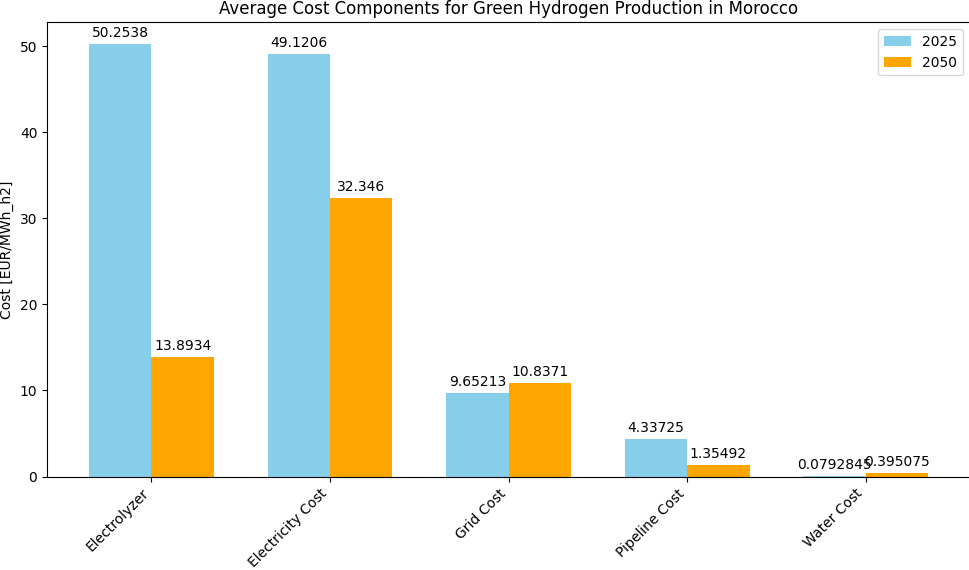
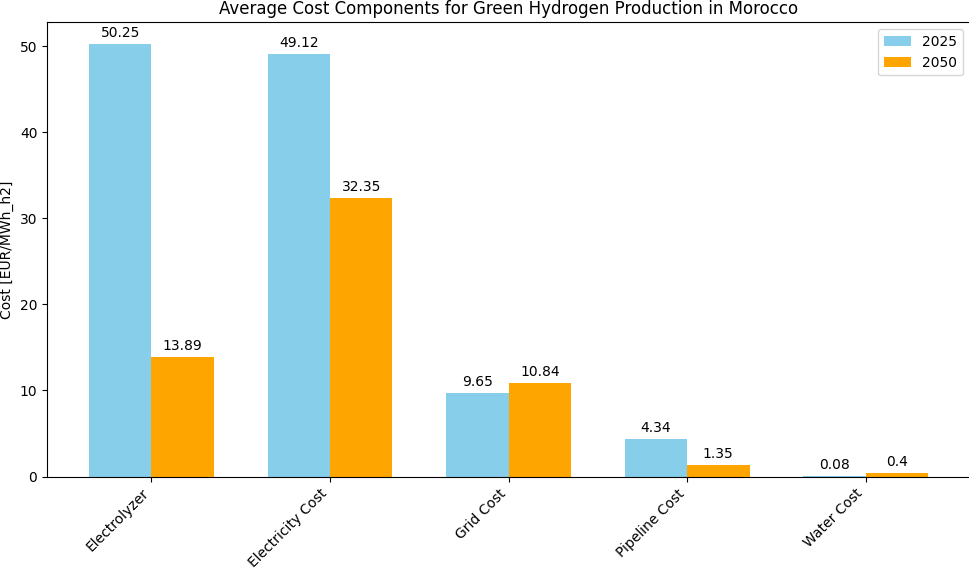
Update

diff --git a/Cost_analysis/results_cost.py b/Cost_analysis/results_cost.py
@@ -14,6 +14,13 @@ df_res_2050             = pd.read_csv('Data/results_cost_2050.csv')
 theme_rating = 'jet'
 theme_diff   = 'OrRd_r'
 
+# Beispiel-Koordinate
+y_limit = 3.15e6
+
+# Filter: alle Objekte, deren Geometrie-Zentrum südlicher liegt
+gdf_south = gdf_grid_morocco[gdf_grid_morocco.geometry.centroid.y < y_limit]
+gdf_north = gdf_grid_morocco[gdf_grid_morocco.geometry.centroid.y >= y_limit]
+
 # Costs 2025
 fig, ax = plt.subplots(figsize=(15, 10))
 gdf_morocco_boundary.plot(ax=ax, edgecolor='black', facecolor="none", linewidth=2)
@@ -22,8 +29,8 @@ cx.add_basemap(ax, crs=gdf_morocco_boundary.crs, source=cx.providers.CartoDB.Pos
 plt.axis('off')
 cbar_ax = fig.axes[-1]
 cbar_ax.tick_params(labelsize=14)
-cbar_ax.yaxis.label.set_size(14)
-plt.savefig("Maps/cost_map_2025.png", format="png", dpi=300, bbox_inches='tight', pad_inches=0)
+cbar_ax.yaxis.label.set_size(20)
+plt.savefig("Maps/cost_map_2025.pdf", format="pdf", dpi=300, bbox_inches='tight', pad_inches=0)
 plt.show()
 
 # Costs 2050
@@ -34,14 +41,14 @@ cx.add_basemap(ax, crs=gdf_morocco_boundary.crs, source=cx.providers.CartoDB.Pos
 plt.axis('off')
 cbar_ax = fig.axes[-1]
 cbar_ax.tick_params(labelsize=14)
-cbar_ax.yaxis.label.set_size(14)
-plt.savefig("Maps/cost_map_2050.png", format="png", dpi=300, bbox_inches='tight', pad_inches=0)
+cbar_ax.yaxis.label.set_size(20)
+plt.savefig("Maps/cost_map_2050.pdf", format="pdf", dpi=300, bbox_inches='tight', pad_inches=0)
 plt.show()
 
 # Kostenanteile
 labels = ['Electrolyzer', 'Electricity Cost', 'Grid Cost', 'Pipeline Cost', 'Water Cost']
-costs_2025 = [df_res_2025['Electrolyzer_cost [EUR/MWh_h2]'].mean(), df_res_2025['RE_cost [EUR/MWh_h2]'].mean(), df_res_2025['Distribution_cost [EUR/MWh_h2]'].mean(), df_res_2025['Pipeline_cost [EUR/MWh_h2]'].mean(), df_res_2025['Water_cost [EUR/MWh_h2]'].mean()]
-costs_2050 = [df_res_2050['Electrolyzer_cost [EUR/MWh_h2]'].mean(), df_res_2050['RE_cost [EUR/MWh_h2]'].mean(), df_res_2050['Distribution_cost [EUR/MWh_h2]'].mean(), df_res_2050['Pipeline_cost [EUR/MWh_h2]'].mean(), df_res_2050['Water_cost [EUR/MWh_h2]'].mean()]
+costs_2025 = [round(df_res_2025['Electrolyzer_cost [EUR/MWh_h2]'].mean(), 2), round(df_res_2025['RE_cost [EUR/MWh_h2]'].mean(), 2), round(df_res_2025['Distribution_cost [EUR/MWh_h2]'].mean(), 2), round(df_res_2025['Pipeline_cost [EUR/MWh_h2]'].mean(), 2), round(df_res_2025['Water_cost [EUR/MWh_h2]'].mean(), 2)]
+costs_2050 = [round(df_res_2050['Electrolyzer_cost [EUR/MWh_h2]'].mean(), 2), round(df_res_2050['RE_cost [EUR/MWh_h2]'].mean(), 2), round(df_res_2050['Distribution_cost [EUR/MWh_h2]'].mean(), 2), round(df_res_2050['Pipeline_cost [EUR/MWh_h2]'].mean(), 2), round(df_res_2050['Water_cost [EUR/MWh_h2]'].mean(), 2)]
 x = np.arange(len(labels))  # the label locations
 width = 0.35  # the width of the bars
 fig, ax = plt.subplots(figsize=(10, 6))
@@ -56,7 +63,7 @@ ax.legend()
 ax.bar_label(rects1, padding=3)
 ax.bar_label(rects2, padding=3)
 fig.tight_layout()
-plt.savefig("Maps/bar_cost_components_morocco_seperate.png", format="png", bbox_inches='tight', pad_inches=0)
+plt.savefig("Maps/bar_cost_components_morocco_seperate.pdf", format="pdf", bbox_inches='tight', pad_inches=0)
 plt.show()
 
 # Gestapeltes Säulendiagramm
@@ -81,5 +88,73 @@ ax.set_ylabel('Cost [EUR/MWh_h2]')
 ax.set_title('Cost Components for Green Hydrogen Production in Morocco')
 ax.legend([b[0] for b in bars], labels, bbox_to_anchor=(1.05, 1), loc='upper left')
 fig.tight_layout()
-plt.savefig("Maps/bar_cost_components_morocco.png", format="png", bbox_inches='tight', pad_inches=0)
+plt.savefig("Maps/bar_cost_components_morocco.pdf", format="pdf", bbox_inches='tight', pad_inches=0)
+plt.show()
+
+# IDs der nördlichen und südlichen Zellen
+north_idx = gdf_north.index
+south_idx = gdf_south.index
+
+labels = ['Electrolyzer', 'Electricity Cost', 'Grid Cost', 'Pipeline Cost', 'Water Cost']
+
+# 2025
+costs_north_2025 = [
+    df_res_2025.loc[north_idx, 'Electrolyzer_cost [EUR/MWh_h2]'].mean(),
+    df_res_2025.loc[north_idx, 'RE_cost [EUR/MWh_h2]'].mean(),
+    df_res_2025.loc[north_idx, 'Distribution_cost [EUR/MWh_h2]'].mean(),
+    df_res_2025.loc[north_idx, 'Pipeline_cost [EUR/MWh_h2]'].mean(),
+    df_res_2025.loc[north_idx, 'Water_cost [EUR/MWh_h2]'].mean()
+]
+costs_south_2025 = [
+    df_res_2025.loc[south_idx, 'Electrolyzer_cost [EUR/MWh_h2]'].mean(),
+    df_res_2025.loc[south_idx, 'RE_cost [EUR/MWh_h2]'].mean(),
+    df_res_2025.loc[south_idx, 'Distribution_cost [EUR/MWh_h2]'].mean(),
+    df_res_2025.loc[south_idx, 'Pipeline_cost [EUR/MWh_h2]'].mean(),
+    df_res_2025.loc[south_idx, 'Water_cost [EUR/MWh_h2]'].mean()
+]
+
+x = np.arange(len(labels))
+width = 0.35
+fig, ax = plt.subplots(figsize=(10, 6))
+rects1 = ax.bar(x - width/2, costs_north_2025, width, label='Norden', color='royalblue')
+rects2 = ax.bar(x + width/2, costs_south_2025, width, label='Süden', color='darkorange')
+ax.set_ylabel('Cost [EUR/MWh_h2]')
+ax.set_title('Cost share 2025: north and south')
+ax.set_xticks(x)
+ax.set_xticklabels(labels, rotation=45, ha='right')
+ax.legend()
+ax.bar_label(rects1, padding=3)
+ax.bar_label(rects2, padding=3)
+fig.tight_layout()
+plt.savefig("Maps/bar_cost_components_north_vs_south_2025.pdf", format="pdf", bbox_inches='tight', pad_inches=0)
+plt.show()
+
+# 2050
+costs_north_2050 = [
+    df_res_2050.loc[north_idx, 'Electrolyzer_cost [EUR/MWh_h2]'].mean(),
+    df_res_2050.loc[north_idx, 'RE_cost [EUR/MWh_h2]'].mean(),
+    df_res_2050.loc[north_idx, 'Distribution_cost [EUR/MWh_h2]'].mean(),
+    df_res_2050.loc[north_idx, 'Pipeline_cost [EUR/MWh_h2]'].mean(),
+    df_res_2050.loc[north_idx, 'Water_cost [EUR/MWh_h2]'].mean()
+]
+costs_south_2050 = [
+    df_res_2050.loc[south_idx, 'Electrolyzer_cost [EUR/MWh_h2]'].mean(),
+    df_res_2050.loc[south_idx, 'RE_cost [EUR/MWh_h2]'].mean(),
+    df_res_2050.loc[south_idx, 'Distribution_cost [EUR/MWh_h2]'].mean(),
+    df_res_2050.loc[south_idx, 'Pipeline_cost [EUR/MWh_h2]'].mean(),
+    df_res_2050.loc[south_idx, 'Water_cost [EUR/MWh_h2]'].mean()
+]
+
+fig, ax = plt.subplots(figsize=(10, 6))
+rects1 = ax.bar(x - width/2, costs_north_2050, width, label='Norden', color='royalblue')
+rects2 = ax.bar(x + width/2, costs_south_2050, width, label='Süden', color='darkorange')
+ax.set_ylabel('Cost [EUR/MWh_h2]')
+ax.set_title('Cost share 2050: north and south')
+ax.set_xticks(x)
+ax.set_xticklabels(labels, rotation=45, ha='right')
+ax.legend()
+ax.bar_label(rects1, padding=3)
+ax.bar_label(rects2, padding=3)
+fig.tight_layout()
+plt.savefig("Maps/bar_cost_components_north_vs_south_2050.pdf", format="pdf", bbox_inches='tight', pad_inches=0)
 plt.show()

diff --git a/MCA/mca_maps.py b/MCA/mca_maps.py
@@ -142,9 +142,9 @@ cx.add_basemap(ax, crs=gdf_mca_morocco_2025.crs, source=cx.providers.CartoDB.Pos
 plt.axis('off')
 cbar_ax = fig.axes[-1]
 cbar_ax.tick_params(labelsize=14)
-cbar_ax.yaxis.label.set_size(14)
+cbar_ax.yaxis.label.set_size(20)
 plt.tight_layout()
-plt.savefig("Maps/mca_morocco_2025.png", format="png", dpi=300, bbox_inches='tight', pad_inches=0)
+plt.savefig("Maps/mca_morocco_2025.pdf", format="pdf", dpi=300, bbox_inches='tight', pad_inches=0)
 plt.show()
 
 # Map MCA 2050
@@ -155,9 +155,9 @@ cx.add_basemap(ax, crs=gdf_mca_morocco_2050.crs, source=cx.providers.CartoDB.Pos
 plt.axis('off')
 cbar_ax = fig.axes[-1]
 cbar_ax.tick_params(labelsize=14)
-cbar_ax.yaxis.label.set_size(14)
+cbar_ax.yaxis.label.set_size(20)
 plt.tight_layout()
-plt.savefig("Maps/mca_morocco_2050.png", format="png", dpi=300, bbox_inches='tight', pad_inches=0)
+plt.savefig("Maps/mca_morocco_2050.pdf", format="pdf", dpi=300, bbox_inches='tight', pad_inches=0)
 plt.show()
 
     #Difference
@@ -175,7 +175,54 @@ cx.add_basemap(ax, crs=gdf_mca_morocco_2025.crs, source=cx.providers.CartoDB.Pos
 plt.axis('off')
 cbar_ax = fig.axes[-1]
 cbar_ax.tick_params(labelsize=14)
-cbar_ax.yaxis.label.set_size(14)
+cbar_ax.yaxis.label.set_size(20)
 plt.tight_layout()
-plt.savefig("Maps/mca_morocco_diff.png", format="png", dpi=300, bbox_inches='tight', pad_inches=0)
+plt.savefig("Maps/mca_morocco_diff.pdf", format="pdf", dpi=300, bbox_inches='tight', pad_inches=0)
+plt.show()
+
+# Pie chart of weights
+labels =[
+    'Ground Water Availability',
+    'Surface Water Availability',
+    'Sociopolitical Stability',
+    'Industrial Zone Share',
+    'Wind Energy Yield',
+    'Accessibility',
+    'PV Yield',
+    'Rural Zone Share',
+    'Agricultural Land Share',
+    'Urban Zone Share'
+]
+sizes = [16.99, 16.99, 16.63, 16, 11.13, 8.31, 5.57, 4.96, 1.94, 1.48]
+colors = ['deepskyblue', 'lightskyblue', 'lightcoral', 
+          'orange', 'limegreen', 'plum', 
+          'yellow', 'sandybrown', 
+          'green', 'gray']
+
+fig, ax = plt.subplots(figsize=(10, 6))
+wedges, texts, autotexts = ax.pie(
+    sizes,
+    labels=None,  # Keine Labels an den Tortenstücken
+    colors=colors,
+    startangle=90,
+    autopct='%1.2f%%',
+    counterclock=False
+)
+ax.axis('equal')
+ax.legend(wedges, labels, title="Criteria", bbox_to_anchor=(1, 0.5), loc="center left", 
+          fontsize=14, title_fontsize=16)
+plt.subplots_adjust(left=0.05, right=0.75)
+
+# Verschiebe die Prozentzahlen für Agriculture (8) und Urban (9)
+for i, autotext in enumerate(autotexts):
+    if i == 8:
+        autotext.set_position((1.2 * autotext.get_position()[0], 1.2 * autotext.get_position()[1]))
+    if i == 9:
+        autotext.set_position((1.3 * autotext.get_position()[0], 1.3 * autotext.get_position()[1]))
+
+for autotext in autotexts:
+    autotext.set_fontsize(12)  # z.B. 16, nach Wunsch anpassen
+
+plt.tight_layout()
+plt.savefig("Maps/pie_chart_weights.pdf", format="pdf", dpi=300, bbox_inches='tight', pad_inches=0)
 plt.show()

diff --git a/MCA/water_maps.py b/MCA/water_maps.py
@@ -35,8 +35,9 @@ legend_handles = [
     mpatches.Patch(color='steelblue', label='Aquifer productivity \nbetween moderate and very high'),
 ]
 plt.legend(handles=legend_handles, loc='lower right', fontsize=12)
+plt.title('Groundwater Potential of Morocco', fontsize=16)
 plt.tight_layout()
-plt.savefig("Maps/morocco_groundwater.png", format="png", dpi=300, bbox_inches='tight', pad_inches=0)
+plt.savefig("Maps/morocco_groundwater_with_title.png", format="png", dpi=300, bbox_inches='tight', pad_inches=0)
 plt.show()
 
 # Map Surface Water
@@ -51,8 +52,9 @@ gdf_grid.plot(ax = ax, column='Surface Water', cmap = new_cmap, label='Surface W
 gdf_morocco_boundary.plot(ax=ax, edgecolor='black', facecolor="none", linewidth=1)
 cx.add_basemap(ax, crs=gdf_morocco_boundary.crs, source=cx.providers.CartoDB.Positron)
 plt.axis('off')
+plt.title('Surface Water Availability of Morocco', fontsize=16)
 plt.tight_layout()
-plt.savefig("Maps/morocco_surfacewater.png", format="png", dpi=300, bbox_inches='tight', pad_inches=0)
+plt.savefig("Maps/morocco_surfacewater_with_title.png", format="png", dpi=300, bbox_inches='tight', pad_inches=0)
 plt.show()
 
 # Map flow direction
@@ -64,8 +66,9 @@ plt.axis('off')
 cbar_ax = fig.axes[-1]
 cbar_ax.tick_params(labelsize=12)
 cbar_ax.yaxis.label.set_size(14)
+plt.title('Flow Direction of Morocco', fontsize=16)
 plt.tight_layout()
-plt.savefig("Maps/morocco_flow_direction.png", format="png", dpi=300, bbox_inches='tight', pad_inches=0)
+plt.savefig("Maps/morocco_flow_direction_with_title.png", format="png", dpi=300, bbox_inches='tight', pad_inches=0)
 plt.show()
 
 # Map Watersheds
@@ -74,8 +77,9 @@ gdf_watershead_morocco.plot(ax = ax, column='name',alpha=0.5,edgecolor='black', 
 gdf_morocco_boundary.plot(ax=ax, edgecolor='black', facecolor="none", linewidth=1)
 cx.add_basemap(ax, crs=gdf_morocco_boundary.crs, source=cx.providers.CartoDB.Positron)
 plt.axis('off')
+plt.title('Watersheds of Morocco', fontsize=16)
 plt.tight_layout()
-plt.savefig("Maps/morocco_watersheds.png", format="png", dpi=300, bbox_inches='tight', pad_inches=0)
+plt.savefig("Maps/morocco_watersheds_with_title.png", format="png", dpi=300, bbox_inches='tight', pad_inches=0)
 plt.show()
 
 # Map CWB
@@ -87,6 +91,7 @@ plt.axis('off')
 cbar_ax = fig.axes[-1]
 cbar_ax.tick_params(labelsize=12)
 cbar_ax.yaxis.label.set_size(14)
+plt.title('Climate Water Balance (CWB) of Morocco for 2050', fontsize=16)
 plt.tight_layout()
-plt.savefig("Maps/morocco_cwb.png", format="png", dpi=300, bbox_inches='tight', pad_inches=0)
+plt.savefig("Maps/morocco_cwb_with_title.png", format="png", dpi=300, bbox_inches='tight', pad_inches=0)
 plt.show()

diff --git a/MCA/infra_map.py b/MCA/infra_map.py
@@ -53,11 +53,11 @@ for idx, row in gdf_ports_2050.iterrows():
             
 gdf_morocco_boundary.plot(ax=ax, edgecolor='black', facecolor="none", linewidth=1.5)
     # Roads and Railways
-# for track_class in classes:
-#     if track_class == 'railway':
-#         gdf_roads_railsways[gdf_roads_railsways['fclass'] == track_class].plot(ax=ax, label='Roads and railways',linewidth=0.1, color = np.random.rand(3,)) 
-#     else:
-#         gdf_roads_railsways[gdf_roads_railsways['fclass'] == track_class].plot(ax=ax, linewidth=0.1, color = np.random.rand(3,))
+for track_class in classes:
+    if track_class == 'railway':
+        gdf_roads_railsways[gdf_roads_railsways['fclass'] == track_class].plot(ax=ax, label='Roads and railways',linewidth=0.1, color = np.random.rand(3,)) 
+    else:
+        gdf_roads_railsways[gdf_roads_railsways['fclass'] == track_class].plot(ax=ax, linewidth=0.1, color = np.random.rand(3,))
 gdf_ports_2025.plot(ax=ax, color='blue', marker='o', markersize=50, label='Current ports of Morocco')
 gdf_ports_new.plot(ax=ax, color='red', marker='o', markersize=50, label='New ports of Morocco')
 cx.add_basemap(ax, crs=gdf_roads_railsways.crs, source=cx.providers.CartoDB.Positron)

diff --git a/MCA/re_potential_map.py b/MCA/re_potential_map.py
@@ -20,8 +20,9 @@ plt.axis('off')
 cbar_ax = fig.axes[-1]
 cbar_ax.tick_params(labelsize=12)
 cbar_ax.yaxis.label.set_size(14)
+plt.title('Photovoltaic Potential (spez. yield) of Morocco', fontsize=16)
 plt.tight_layout()
-plt.savefig("Maps/morocco_photovoltaic_potential.png", format="png", dpi=300, bbox_inches='tight', pad_inches=0)
+plt.savefig("Maps/morocco_photovoltaic_potential_with_title.png", format="png", dpi=300, bbox_inches='tight', pad_inches=0)
 plt.show()
 
 # Map Wind
@@ -32,6 +33,7 @@ plt.axis('off')
 cbar_ax = fig.axes[-1]
 cbar_ax.tick_params(labelsize=12)
 cbar_ax.yaxis.label.set_size(14)
+plt.title('Wind Potential (FLH) of Morocco', fontsize=16)
 plt.tight_layout()
-plt.savefig("Maps/morocco_wind_potential.png", format="png", dpi=300, bbox_inches='tight', pad_inches=0)
+plt.savefig("Maps/morocco_wind_potential_with_title.png", format="png", dpi=300, bbox_inches='tight', pad_inches=0)
 plt.show()

diff --git a/MCA/landuse_map.py b/MCA/landuse_map.py
@@ -40,5 +40,6 @@ legend_handles = [
     mpatches.Patch(color='red', label='Industrial area')]
 plt.legend(handles=legend_handles, loc='lower right', fontsize=12)
 plt.tight_layout()
-plt.savefig("Maps/morocco_landuse.png", format="png", dpi=300, bbox_inches='tight', pad_inches=0)
+plt.title('Land Use of Morocco', fontsize=16)
+plt.savefig("Maps/morocco_landuse_with_title.png", format="png", dpi=300, bbox_inches='tight', pad_inches=0)
 plt.show()

diff --git a/MCA/nogo_maps.py b/MCA/nogo_maps.py
@@ -32,6 +32,7 @@ legend_handles = [
     mpatches.Patch(color='grey', label='Steep slope area')
 ]
 plt.legend(handles=legend_handles, loc='lower right', fontsize=12)
+plt.title('No-Go Zones for Morocco', fontsize=16)
 plt.tight_layout()
-plt.savefig("Maps/morocco_nogos.png", format="png", dpi=300, bbox_inches='tight', pad_inches=0)
+plt.savefig("Maps/morocco_nogos_with_title.png", format="png", dpi=300, bbox_inches='tight', pad_inches=0)
 plt.show()